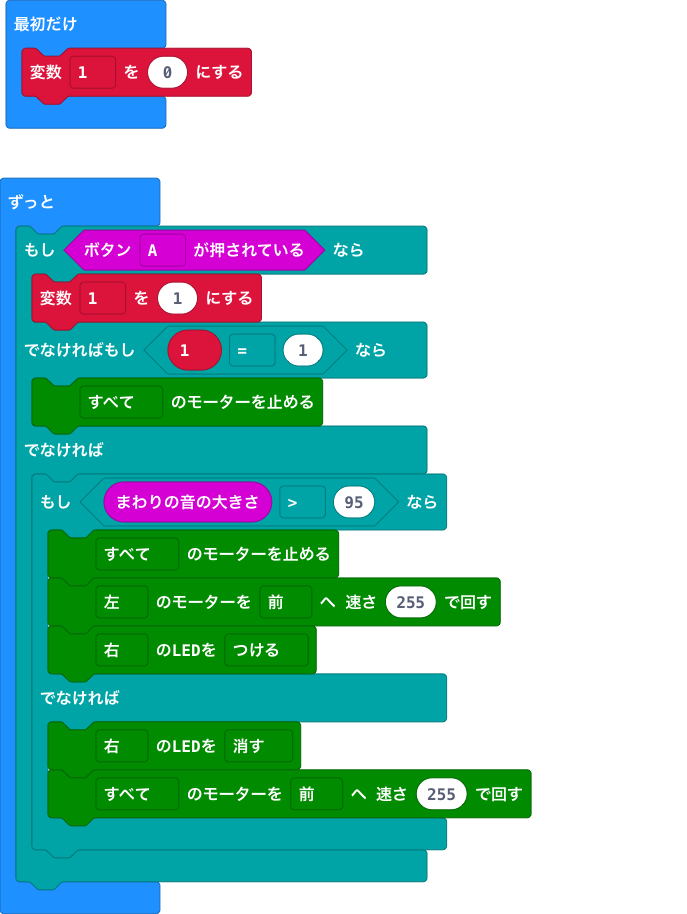
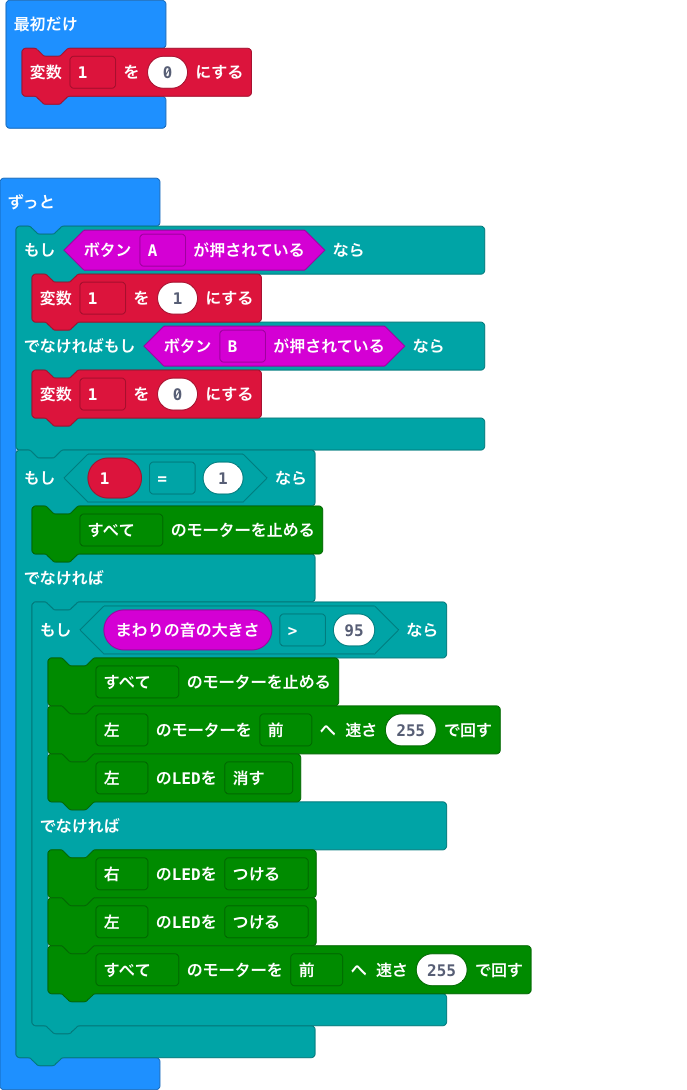
1,停止・再開機能の追加   2,LEDを片側消す方式に変更

Changed region(s): [[0.0, 0.0, 0.7948, 0.9803]]

diff --git a/main.ts b/main.ts
@@ -2,15 +2,19 @@ let _1 = 0
 basic.forever(function () {
     if (input.buttonIsPressed(Button.A)) {
         _1 = 1
-    } else if (_1 == 1) {
+    } else if (input.buttonIsPressed(Button.B)) {
+        _1 = 0
+    }
+    if (_1 == 1) {
         maqueen.motorStop(maqueen.Motors.All)
     } else {
         if (input.soundLevel() > 95) {
             maqueen.motorStop(maqueen.Motors.All)
             maqueen.motorRun(maqueen.Motors.M1, maqueen.Dir.CW, 255)
-            maqueen.writeLED(maqueen.LED.LEDRight, maqueen.LEDswitch.turnOn)
+            maqueen.writeLED(maqueen.LED.LEDLeft, maqueen.LEDswitch.turnOff)
         } else {
-            maqueen.writeLED(maqueen.LED.LEDRight, maqueen.LEDswitch.turnOff)
+            maqueen.writeLED(maqueen.LED.LEDRight, maqueen.LEDswitch.turnOn)
+            maqueen.writeLED(maqueen.LED.LEDLeft, maqueen.LEDswitch.turnOn)
             maqueen.motorRun(maqueen.Motors.All, maqueen.Dir.CW, 255)
         }
     }
